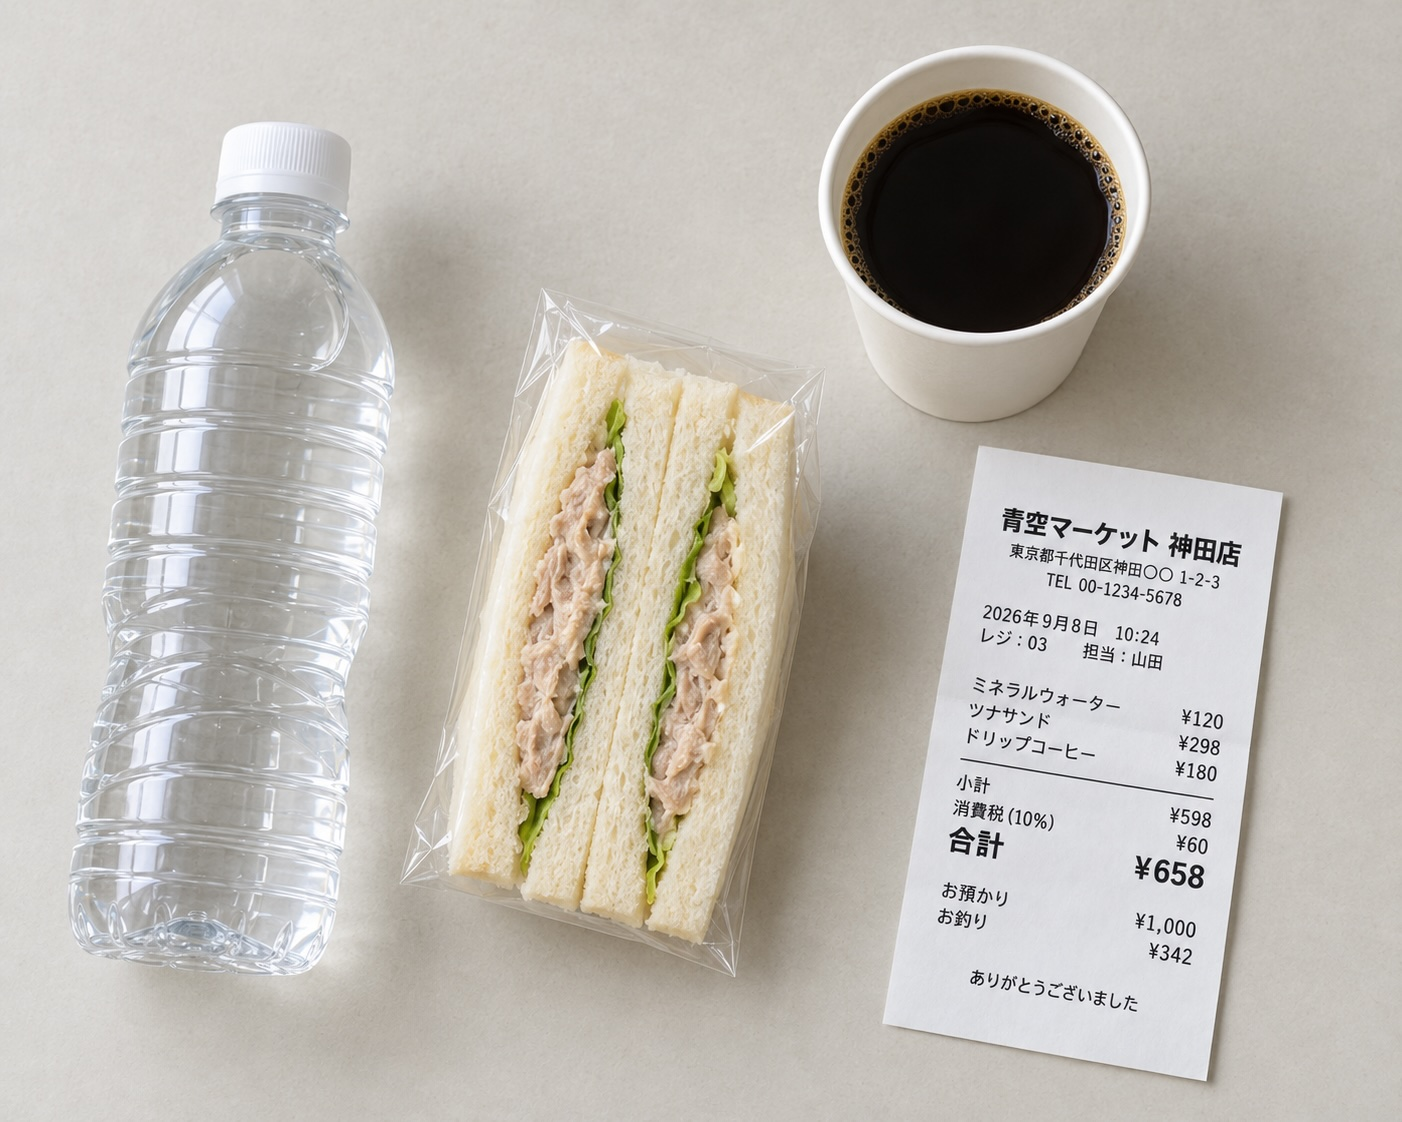
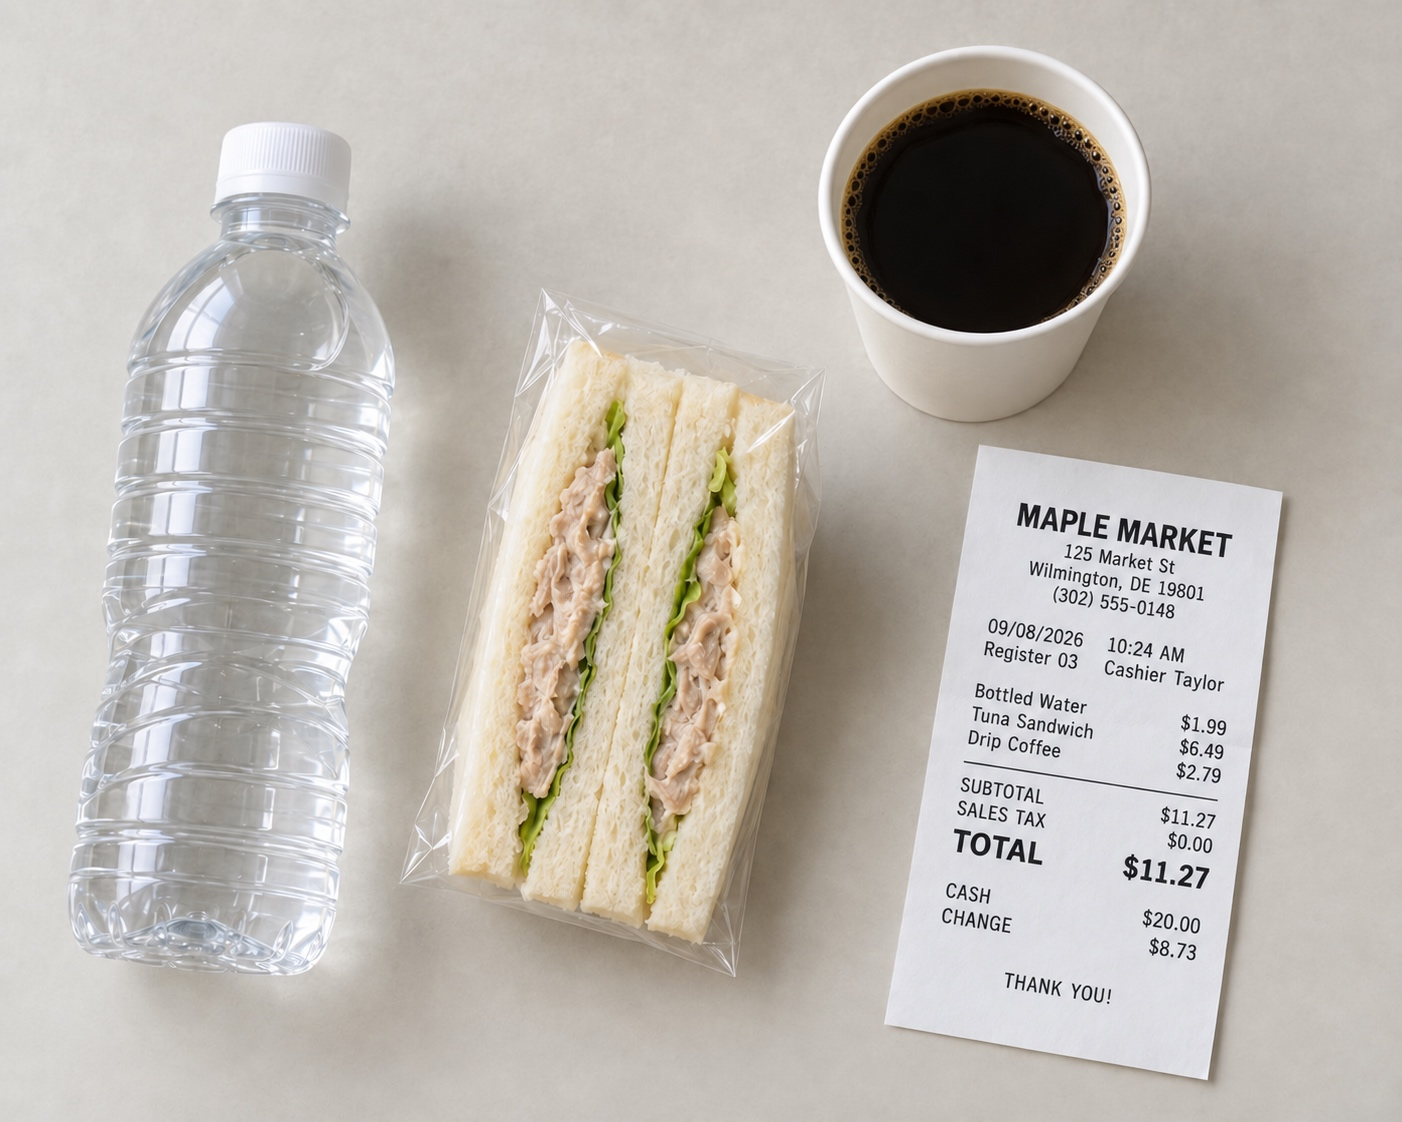
Localize English sample receipts as US grocery images

diff --git a/en/chat/extract.py b/en/chat/extract.py
@@ -7,21 +7,21 @@ from pydantic import BaseModel
 class Receipt(BaseModel):
     store: str
     date: str
-    total: int
+    total: float
 
 
 text = """
-Aozora Market Kanda
-September 8, 2026
-Mineral water 120 yen
-Tuna sandwich 298 yen
-Drip coffee 180 yen
-Total 658 yen
+Maple Market
+09/08/2026
+Bottled Water $1.99
+Tuna Sandwich $6.49
+Drip Coffee $2.79
+TOTAL $11.27
 """
 
 response = chat(
     model="gemma4:e2b",
-    messages=[{"role": "user", "content": f"Extract the fields from the following receipt.\n\n{text}"}],
+    messages=[{"role": "user", "content": f"Extract the store, date, and total from this receipt. Return the total as a number of US dollars without the dollar sign.\n\n{text}"}],
     format=Receipt.model_json_schema(),
     options={"temperature": 0},
 )

diff --git a/en/vision/receipt.py b/en/vision/receipt.py
@@ -7,7 +7,7 @@ from pydantic import BaseModel
 class Receipt(BaseModel):
     store: str
     date: str
-    total: int
+    total: float
 
 
 response = chat(
@@ -15,7 +15,7 @@ response = chat(
     messages=[
         {
             "role": "user",
-            "content": "Read the store name, date, and total amount from this receipt image. Write the store name in English.",
+            "content": "Read the store name, date, and total from this receipt image. Return the total as a number of US dollars without the dollar sign.",
             "images": ["vision/images/receipt.jpg"],
         }
     ],

diff --git a/en/vision/images/README.md b/en/vision/images/README.md
@@ -4,7 +4,7 @@ Place images used by the `vision/` programs in this folder.
 
 | File | Contents | Program |
 | --- | --- | --- |
-| `sample.jpg` | A photo to describe | `describe.py` |
-| `receipt.jpg` | A photographed Japanese receipt | `receipt.py` |
+| `sample.jpg` | Bottled water, a tuna sandwich, coffee, and a Maple Market receipt | `describe.py` |
+| `receipt.jpg` | A Maple Market receipt from Wilmington, Delaware, totaling $11.27 | `receipt.py` |
 
-`folder.py` processes every `.jpg`, `.jpeg`, and `.png` file in this folder. You can add your own photos. The receipt remains a Japanese source image; the English programs ask for English descriptions of it.
+`folder.py` processes every `.jpg`, `.jpeg`, and `.png` file in this folder. You can add your own photos. Both supplied images use English receipt text and US dollar amounts.
